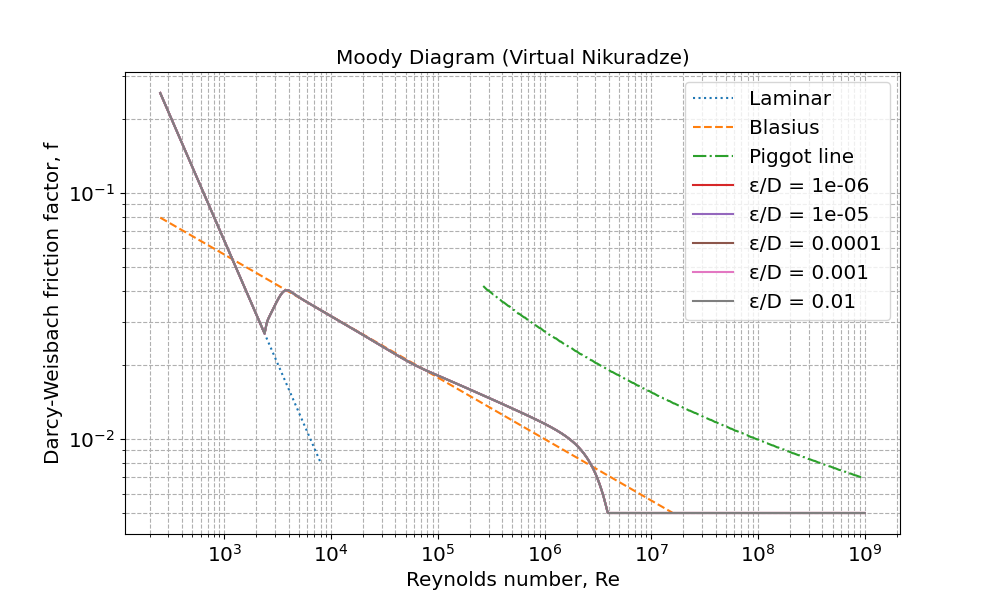
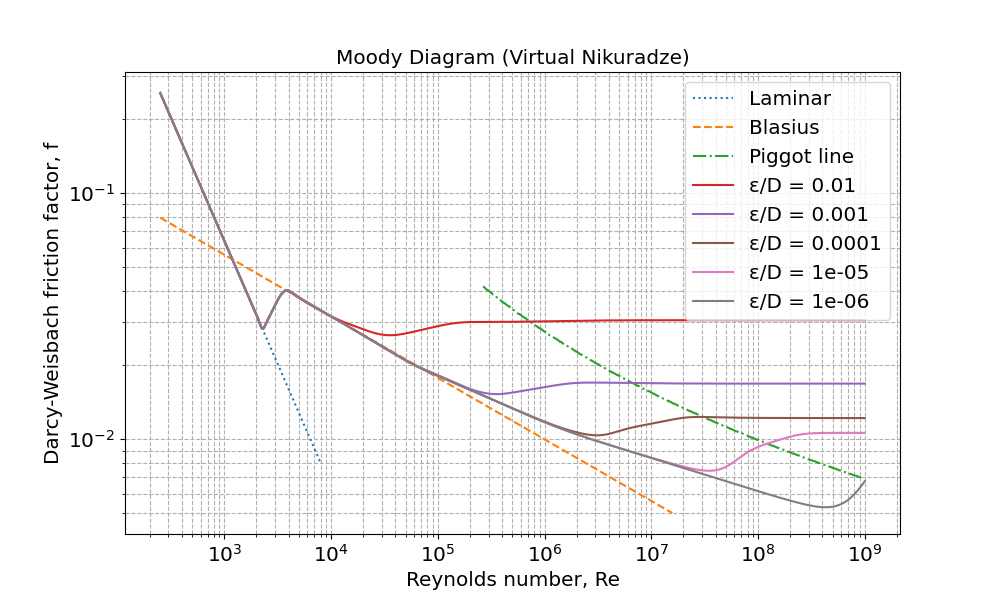
virtual nik with pyfrac

diff --git a/pyfrac_yj.py b/pyfrac_yj.py
@@ -1,0 +1,229 @@
+"""
+This file is part of PyFrac.
+
+Created by Haseeb Zia on Thu Dec 22 11:51:00 2016.
+Copyright (c) ECOLE POLYTECHNIQUE FEDERALE DE LAUSANNE, Switzerland, Geo-Energy Laboratory, 2016-2020.
+All rights reserved. See the LICENSE.TXT file for more details.
+"""
+
+import numpy as np
+from scipy.special import factorial
+from scipy.optimize import fsolve
+
+
+def FF_YangJoseph_vector(ReNum, rough):
+    """
+    This function approximate the friction factor for the given Reynold's number and the relative roughness arrays with
+    the Yang Joseph approximation (see Virtual Nikuradse Yang & Joseph 2009).
+    
+    Arguments:
+        ReNum (ndarray):      -- Reynold's number
+        rough (ndarray):      -- 1/relative roughness (w/roughness length scale)
+    
+    Returns:
+         ff (ndarray):        -- frction factor
+    """
+    ff = np.full((len(ReNum),), np.inf, dtype=np.float64)
+
+    lam = np.where(abs(ReNum) < 2100)[0]
+    ff[lam] = 16 / ReNum[lam]
+
+    turb = np.where(abs(ReNum) >= 2100)[0]
+    lamdaS = (-((-64/ReNum[turb] + 0.000083*ReNum[turb]**0.75)/(1 + 2320**50/ReNum[turb]**50)**0.5) - 64/ReNum[turb] + 0.3164/ReNum[turb]**0.25)/(
+        1 + 3810**15/ReNum[turb]**15)**0.5 + (-((-((-64/ReNum[turb] + 0.000083*ReNum[turb]**0.75)/(1 + 2320**50/ReNum[turb]**50)**0.5) -
+        64/ReNum[turb] + 0.3164/ReNum[turb]**0.25)/(1 + 3810**15/ReNum[turb]**15)**0.5) - (-64/ReNum[turb] + 0.000083*ReNum[turb]**0.75)/(1
+        + 2320**50/ReNum[turb]**50)**0.5 - 64/ReNum[turb] + 0.1537/ReNum[turb]**0.185)/(1 + 1680700000000000000000000/ReNum[turb]**5)**0.5 + (-
+        ((-((-64/ReNum[turb] + 0.000083*ReNum[turb]**0.75)/(1 + 2320**50/ReNum[turb]**50)**0.5) - 64/ReNum[turb] + 0.3164/ReNum[turb]**0.25)/(1 +
+        3810**15/ReNum[turb]**15)**0.5) - (-((-((-64/ReNum[turb] + 0.000083*ReNum[turb]**0.75)/(1 + 2320**50/ReNum[turb]**50)**0.5) - 64/ReNum[turb]
+        + 0.3164/ReNum[turb]**0.25)/(1 + 3810**15/ReNum[turb]**15)**0.5) - (-64/ReNum[turb] + 0.000083*ReNum[turb]**0.75)/(1 +
+        2320**50/ReNum[turb]**50)**0.5 - 64/ReNum[turb] + 0.1537/ReNum[turb]**0.185)/(1 + 1680700000000000000000000/ReNum[turb]**5)**0.5 - (
+        -64/ReNum[turb] + 0.000083*ReNum[turb]**0.75)/(1 + 2320**50/ReNum[turb]**50)**0.5 - 64/ReNum[turb] + 0.0753/ReNum[turb]**0.136)/(1 +
+        4000000000000/ReNum[turb]**2)**0.5 + (-64/ReNum[turb] + 0.000083*ReNum[turb]**0.75)/(1 + 2320**50/ReNum[turb]**50)**0.5 + 64/ReNum[turb]
+
+    lamdaR = ReNum[turb]**(-0.2032 + 7.348278/rough[turb]**0.96433953)*(-0.022 + (-0.978 + 0.92820419*rough[turb]**0.03569244 -
+        0.00255391*rough[turb]**0.8353877)/(1 +
+        265550686013728218770454203489441165109061383639474724663955742569518708077419167245843482753466249/rough[turb]**50
+        )**0.5 + 0.00255391*rough[turb]**0.8353877) + (-(ReNum[turb]**(-0.2032 + 7.348278/rough[turb]**0.96433953)*(-0.022 + (-0.978 +
+        0.92820419*rough[turb]**0.03569244 - 0.00255391*rough[turb]**0.8353877)/(1 +
+        265550686013728218770454203489441165109061383639474724663955742569518708077419167245843482753466249/rough[turb]**50
+        )**0.5 + 0.00255391*rough[turb]**0.8353877)) + 0.01105244*ReNum[turb]**(-0.191 + 0.62935712/rough[turb]**0.28022284)*
+        rough[turb]**0.23275646 + (ReNum[turb]**(0.015 + 0.26827956/rough[turb]**0.28852025)*(0.0053 + 0.02166401/rough[turb]**0.30702955) -
+        0.01105244*ReNum[turb]**(-0.191 + 0.62935712/rough[turb]**0.28022284)*rough[turb]**0.23275646 + (ReNum[turb]**0.002*(0.011 +
+        0.18954211/rough[turb]**0.510031) - ReNum[turb]**(0.015 + 0.26827956/rough[turb]**0.28852025)*(0.0053 + 0.02166401/rough[turb]**
+        0.30702955) + (0.0098 - ReNum[turb]**0.002*(0.011 + 0.18954211/rough[turb]**0.510031) + 0.17805185/rough[turb]**0.46785053)/(1 +
+        (8.733801045300249e10*rough[turb]**0.90870686)/ReNum[turb]**2)**0.5)/(1 + (6.44205549308073e15*rough[turb]**5.168887)/ReNum[turb]**5)
+        **0.5)/(1 + (1.1077593467238922e13*rough[turb]**4.9771653)/ReNum[turb]**5)**0.5)/(1 + (2.9505925619934144e14*rough[turb]**
+        3.7622822)/ReNum[turb]**5)**0.5
+
+    ff[turb] = np.asarray(
+        lamdaS + (lamdaR - lamdaS) / (1 + (ReNum[turb] / (45.196502 * rough[turb] ** 1.2369807 + 1891)) ** -5) ** 0.5, float) / 4
+
+    return ff
+
+
+
+#######################################
+def FF_YangJoseph(ReNum, rough):
+    """
+    This function approximate the friction factor for the given Reynold's number and the relative roughness float 
+    with the Yang Joseph approximation (see Virtual Nikuradse Yang & Joseph 2009).
+
+    Arguments:
+        ReNum (float):      -- Reynold's number
+        rough (float):      -- 1/relative roughness (w/roughness length scale)
+
+    Returns:
+         float :            -- friction factor
+    """
+    if ReNum < 1e-8:
+        return 0
+    elif ReNum < 2100:
+        return 16/ReNum
+    else:
+        lamdaS = (-((-64/ReNum + 0.000083*ReNum**0.75)/(1 + 2320**50/ReNum**50)**0.5) - 64/ReNum + 0.3164/ReNum**0.25)/(
+        1 + 3810**15/ReNum**15)**0.5 + (-((-((-64/ReNum + 0.000083*ReNum**0.75)/(1 + 2320**50/ReNum**50)**0.5) -
+        64/ReNum + 0.3164/ReNum**0.25)/(1 + 3810**15/ReNum**15)**0.5) - (-64/ReNum + 0.000083*ReNum**0.75)/(1
+        + 2320**50/ReNum**50)**0.5 - 64/ReNum + 0.1537/ReNum**0.185)/(1 + 1680700000000000000000000/ReNum**5)**0.5 + (-
+        ((-((-64/ReNum + 0.000083*ReNum**0.75)/(1 + 2320**50/ReNum**50)**0.5) - 64/ReNum + 0.3164/ReNum**0.25)/(1 +
+        3810**15/ReNum**15)**0.5) - (-((-((-64/ReNum + 0.000083*ReNum**0.75)/(1 + 2320**50/ReNum**50)**0.5) - 64/ReNum
+        + 0.3164/ReNum**0.25)/(1 + 3810**15/ReNum**15)**0.5) - (-64/ReNum + 0.000083*ReNum**0.75)/(1 +
+        2320**50/ReNum**50)**0.5 - 64/ReNum + 0.1537/ReNum**0.185)/(1 + 1680700000000000000000000/ReNum**5)**0.5 - (
+        -64/ReNum + 0.000083*ReNum**0.75)/(1 + 2320**50/ReNum**50)**0.5 - 64/ReNum + 0.0753/ReNum**0.136)/(1 +
+        4000000000000/ReNum**2)**0.5 + (-64/ReNum + 0.000083*ReNum**0.75)/(1 + 2320**50/ReNum**50)**0.5 + 64/ReNum
+
+        lamdaR = ReNum**(-0.2032 + 7.348278/rough**0.96433953)*(-0.022 + (-0.978 + 0.92820419*rough**0.03569244 -
+        0.00255391*rough**0.8353877)/(1 +
+        265550686013728218770454203489441165109061383639474724663955742569518708077419167245843482753466249/rough**50
+        )**0.5 + 0.00255391*rough**0.8353877) + (-(ReNum**(-0.2032 + 7.348278/rough**0.96433953)*(-0.022 + (-0.978 +
+        0.92820419*rough**0.03569244 - 0.00255391*rough**0.8353877)/(1 +
+        265550686013728218770454203489441165109061383639474724663955742569518708077419167245843482753466249/rough**50
+        )**0.5 + 0.00255391*rough**0.8353877)) + 0.01105244*ReNum**(-0.191 + 0.62935712/rough**0.28022284)*
+        rough**0.23275646 + (ReNum**(0.015 + 0.26827956/rough**0.28852025)*(0.0053 + 0.02166401/rough**0.30702955) -
+        0.01105244*ReNum**(-0.191 + 0.62935712/rough**0.28022284)*rough**0.23275646 + (ReNum**0.002*(0.011 +
+        0.18954211/rough**0.510031) - ReNum**(0.015 + 0.26827956/rough**0.28852025)*(0.0053 + 0.02166401/rough**
+        0.30702955) + (0.0098 - ReNum**0.002*(0.011 + 0.18954211/rough**0.510031) + 0.17805185/rough**0.46785053)/(1 +
+        (8.733801045300249e10*rough**0.90870686)/ReNum**2)**0.5)/(1 + (6.44205549308073e15*rough**5.168887)/ReNum**5)
+        **0.5)/(1 + (1.1077593467238922e13*rough**4.9771653)/ReNum**5)**0.5)/(1 + (2.9505925619934144e14*rough**
+        3.7622822)/ReNum**5)**0.5
+
+        return (lamdaS + (lamdaR - lamdaS) / (1 + (ReNum / (45.196502 * rough ** 1.2369807 + 1891)) ** -5) ** 0.5) / 4
+
+
+def FF_Yang_Dou_residual(vbyu, *args):
+    """
+    The Yang_Dou residual function; to be used by numerical root finder
+    """
+    (Re, rough) = args
+
+    Rstar = Re / (2 * vbyu * rough)
+    theta = np.pi * np.log( Rstar / 1.25) / np.log(100 / 1.25)
+    alpha = (1 - np.cos(theta)) / 2
+    beta = 1 - (1 - 0.107) * (alpha + theta/np.pi) / 2
+    R = Re / (2 * vbyu)
+
+    rt = 1.
+    for i in range(1,5):
+        rt = rt - 1. / np.e * ( i / factorial(i) * (67.8 / R) ** (2 * i))
+
+    return vbyu - (1 - rt) * R / 4. - rt * (2.5 * np.log(R) - 66.69 * R**-0.72 + 1.8 - (2.5 * np.log(
+        (1 + alpha * Rstar / 5) / (1 + alpha * beta * Rstar / 5)) + (5.8 + 1.25) * (alpha * Rstar / (
+        5 + alpha * Rstar)) ** 2 + 2.5 * (alpha * Rstar / (5 + alpha * Rstar)) - (5.8 + 1.25)
+        * (alpha * beta * Rstar / (5 + alpha * beta * Rstar)) ** 2 - 2.5 * (alpha * beta * Rstar / (
+        5 + alpha * beta * Rstar))))
+
+
+
+def FF_Yang_Dou(Re, rough):
+    """
+    This function approximate the friction factor for the given Reynold's number and the relative roughness arrays with
+    the Yang Dou approximation (see Yang, S. Dou, G. (2010). Turbulent drag reduction with polymer additive in rough 
+    pipes. Journal of Fluid Mechanics, 642 279-294). The function is implicit and utilize a numerical root finder
+
+    Arguments:
+        Re (ndarray):       -- Reynold's number.
+        rough (ndarray):    -- 1/relative roughness (w/roughness length scale).
+
+    Returns:
+         ff (ndarray) :     -- friction factor.
+    """
+
+    ff_args = (Re, rough)
+    sol_vbyu = fsolve(FF_Yang_Dou_residual, 15., ff_args)
+    # sol_vbyu = brentq(FF_Yang_Dou_residual, 18., 100., ff_args)
+
+    ff_Yang_Dou = 2 / sol_vbyu ** 2
+    Rplus = Re / (2 * sol_vbyu)
+    ff_Man_Strkl = 0.143 / 4 / rough ** (1 / 3)
+
+    if Rplus >= 100 * rough:
+        ff = ff_Man_Strkl
+    else:
+        ff = ff_Yang_Dou
+    if rough < 32 and ff > ff_Man_Strkl:
+        ff = ff_Man_Strkl
+
+    return ff
+
+
+#-----------------------------------------------------------------------------------------------------------------------
+
+def friction_factor_lam_turb_rough(Re, roughness):
+    """
+    This function approximate the friction factor for the given Reynold's number and the relative roughness arrays. The
+    analytical friction factor of 16/Re is returned in case of laminar flow, Yang Joseph (see Virtual Nikuradse Yang & 
+    Joseph 2009) approximation is used for the turbulent flow cases where the 1/relative roughness is greater than 15, 
+    and Yang Dou approximation (see Yang, S. Dou, G. (2010), Turbulent drag reduction with polymer additive in rough 
+    pipes. Journal of Fluid Mechanics, 642 279-294) is used in the case of turbulent flow with 1/relative roughness 
+    less than 15.
+
+    Arguments:
+        Re(ndarray):            -- Reynold's number
+        roughness (ndarray):    -- 1/relative roughness (w/roughness length scale)
+
+    Returns:
+         ndarray:               -- friction factor
+    """
+    if Re < 1e-8:
+        return 0
+    elif Re < 2300:
+        return 16./Re
+    # elif roughness >= 15.:
+    #     return FF_YangJoseph_float(Re, roughness)
+    else:
+        return FF_Yang_Dou(Re, roughness)
+
+
+#-----------------------------------------------------------------------------------------------------------------------
+
+def friction_factor_MDR(ReNum, roughness):
+    """
+    This function approximate the friction factor for the given Reynold's number and the relative roughness arrays. The
+    analytical friction factor of 16/Re is returned in case of laminar flow, and an explicit approximation of the
+    maximum drag reduction asymptote is returned in case the Reynold's number is larger than 1760.
+
+    Arguments:
+        ReNum (ndarray):        -- Reynold's number
+        roughness (ndarray):    -- relative roughness
+    Returns:
+         ndarray :              -- friction factor
+    """
+    if ReNum < 1e-8:
+        return 0
+    elif ReNum < 1510: #18112100:
+       return 16. / ReNum
+    else:
+        return 1.78 / ReNum**0.7 #1.1 / ReNum**0.65 #
+
+
+
+#-----------------------------------------------------------------------------------------------------------------------
+
+def friction_factor_vector(Re, roughness):
+    """
+    Vector version of the friction_factor function (see the documentation of the friction_factor function)  
+    """
+    ff = np.zeros((Re.size,),dtype=np.float64)
+    for i in range(0,Re.size):
+        ff[i] = friction_factor_MDR(Re[i], roughness[i])
+        # ff[i] = friction_factor_lam_turb_rough(Re[i], roughness[i])
+    return ff

diff --git a/moody.py b/moody.py
@@ -7,6 +7,7 @@ import functools
 import numpy as np
 import matplotlib.pyplot as plt
 import virt_nik as vn
+import pyfrac_yj as pf
 
 from scipy.interpolate import interp1d
 
@@ -43,11 +44,13 @@ def blasius(reynolds):
      
 @memoize 
 def virtual_nikuradse(reynolds, relative_roughness):
-    """This DOES NOT WORK - imperfect conversion from frotran not fixed yet
-    """
-
+    # Now using pyfrac code, which uses Fanning ff so is 4* too small
+    # but while this fits Blasius end, the high-Re end is STILL 4x too small..
     sigma = 1/relative_roughness
-    return vn.vm(reynolds, sigma)
+    return 4 * pf.FF_YangJoseph(reynolds, sigma)
+
+    #This vn.vm DOES NOT WORK - my imperfect conversion from fortran not fixed yet
+    # return vn.vm(reynolds, sigma)
 
 def smooth(reynolds):
     return colebrook(reynolds, 0.0)
@@ -217,7 +220,7 @@ def plot_diagram(title, filename, plot="loglog", fff=colebrook):
     friction_factors = {}
     for rr in relative_roughness_values:
         friction_factors[rr] = [fff(re, rr) for re in reynolds]
-        print(fff,rr)
+        #print(fff,rr)
         # [print(re, rr, haarland(re, rr)) for re in reynolds]
 
 
@@ -267,14 +270,8 @@ plt.rcParams.update(params)
 reynolds_laminar = np.logspace(2.9, 3.9, 5) # 10^2.7 = 501, 10^3.4 = 2512
 reynolds = np.logspace(2.4, 9.0, 1000) # 10^7.7 = 5e7
 relative_roughness_values = [0.01, 0.001, 0.0001, 0.00001,  0.000001] #
-relative_roughness_values = list(reversed(relative_roughness_values))
+#relative_roughness_values = list(reversed(relative_roughness_values))
 fp = piggot()
-
-re = 3000
-sigma = 200
-for rrv in relative_roughness_values:
-    sigma = 1/rrv
-    print(f"{re} {sigma:.1f} {vn.vm(re, sigma):.5f}")
 
 plot_diagram('Moody Diagram (Colebrook)', 'moody_colebrook.png', plot="loglog")
 plot_diagram('Moody Diagram (Azfal)', 'moody_azfal.png', plot="loglog", fff=azfal)
@@ -298,7 +295,14 @@ plot_diagram('Moody (Colebrook) Transition region', 'moody_colebrook_enlarge_lin
 plot_diagram('Moody (Azfal) Transition region', 'moody_azfal_enlarge_lin.png',plot="linear", fff=azfal)
 plot_diagram('Moody Diagram (Virtual Nikuradze)', 'moody_vm_enlarge_lin.png', plot="loglog", fff=virtual_nikuradse)
 
-# plt.show() # does not work as this is a non-interactive run of the program
+
+re = 1e9
+print(f"For high Re = {re:6.0e}")
+for rr in [0.01, 0.001, 0.0001, 0.00001,  0.000001]:
+    for fff in [colebrook, azfal, virtual_nikuradse]:
+        print(f"{fff.__name__:17} {rr:6} {fff(re, rr):.5f}")
+    print("")
+
 '''
 Before running this program, ensure you have the required libraries installed. You can install them using pip:
 pip install numpy matplotlib scipy

diff --git a/virt_nik.py b/virt_nik.py
@@ -146,6 +146,7 @@ def main():
     """
     print("Welcome! This code calculates Lamda = f(Re, Sigma) for pipe flows using the Virtual Nikuradse Correlation (VNC).")
     print("Reminder: VNC requires Re > 0 and Sigma >= 15.")
+    print("This DOES NOT WORK - imperfect conversion from frotran not fixed yet.")
 
     # Main loop
     outer_loop = False
